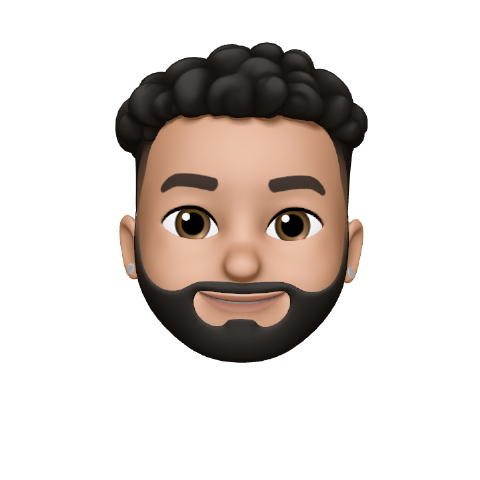
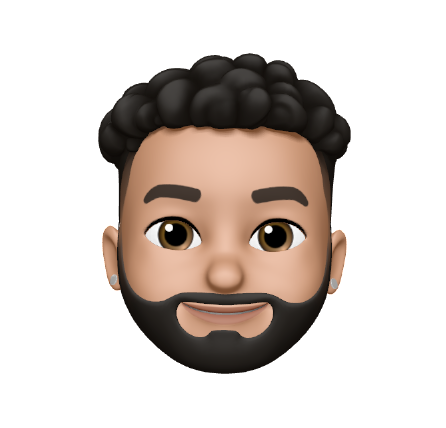
bitmoji modification

Changed region(s): [[0.204, 0.0911, 0.787, 0.8808]]

diff --git a/src/components/WebComponents/HomeWeb.jsx b/src/components/WebComponents/HomeWeb.jsx
@@ -1,6 +1,7 @@
 import React from "react";
 import { SiGithub, SiGithubcopilot, SiReact, SiWelcometothejungle } from '@icons-pack/react-simple-icons';
 import profilePic from '../../assets/profile-pic.png'
+import bitmojiPic from '../../assets/me-bitmoji.png'
 import Typewriter from 'typewriter-effect';
 import ParticleBackground from '../ParticleBackground'
 
@@ -10,7 +11,7 @@ function HomeWeb(){
             
             <div name="Home" className="flex items-center justify-center w-full h-screen">             
                 <div className="flex items-center justify-center m-8 w-2/4">
-                    <img src={profilePic} width={475} className="rounded-full shadow-2xl" alt="proile-pic.png"/>
+                    <img src={bitmojiPic} width={475} className="rounded-full shadow-2xl bg-white" alt="proile-pic.png"/>
                 </div>
                 <div className="m-8 w-2/4">
                 

diff --git a/src/components/WebComponents/NavMenuWeb.jsx b/src/components/WebComponents/NavMenuWeb.jsx
@@ -35,7 +35,7 @@ function NavMenu() {
                     nm
                 </Link>                        
             </div>     
-            <ul className='flex flex-row items-center justify-center z-10 '>
+            <ul className='flex flex-row items-center justify-center z-10'>
                 {links.map(({id, link}) => (
                     <li key={id} className="font-bold m-12 cursor-pointer hover:opacity-55 hover:ease-in duration-150">
                         <Link to={link} smooth duration={500}>

diff --git a/src/components/WeatherDate.jsx b/src/components/WeatherDate.jsx
@@ -41,7 +41,7 @@ function WeatherDate() {
 
   return (
     <div>
-        <div className="flex items-center justify-center w-full text-xl">                      
+        <div className="flex items-center justify-center w-full text-xl ">                      
             <div className='flex items-center justify-center'>
                  
                 27 <sup>°C</sup>
